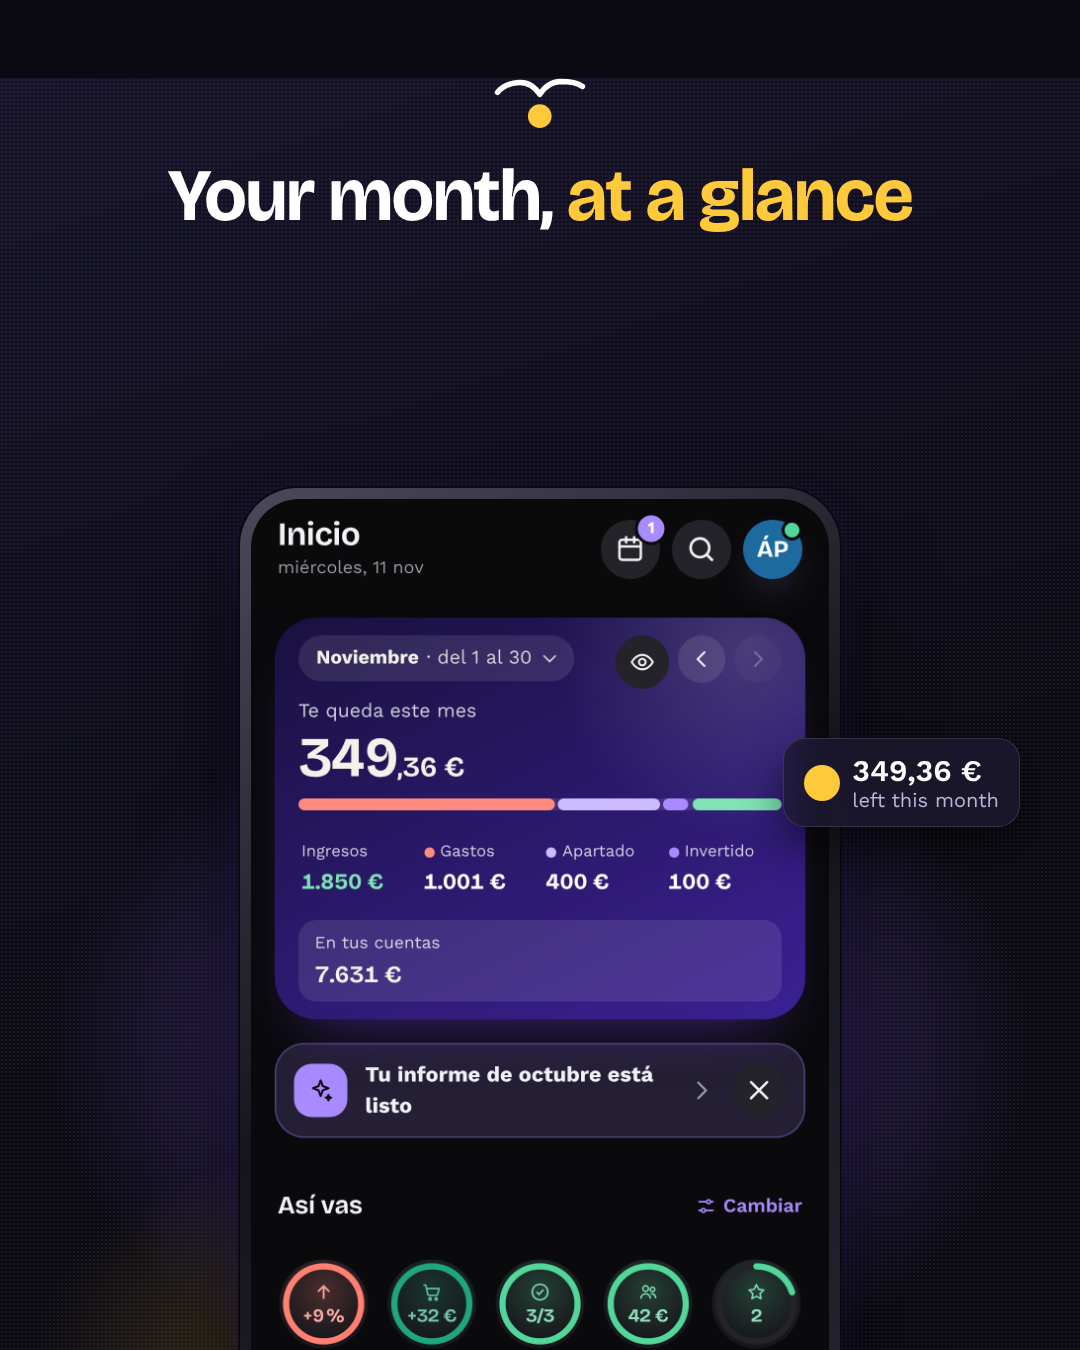
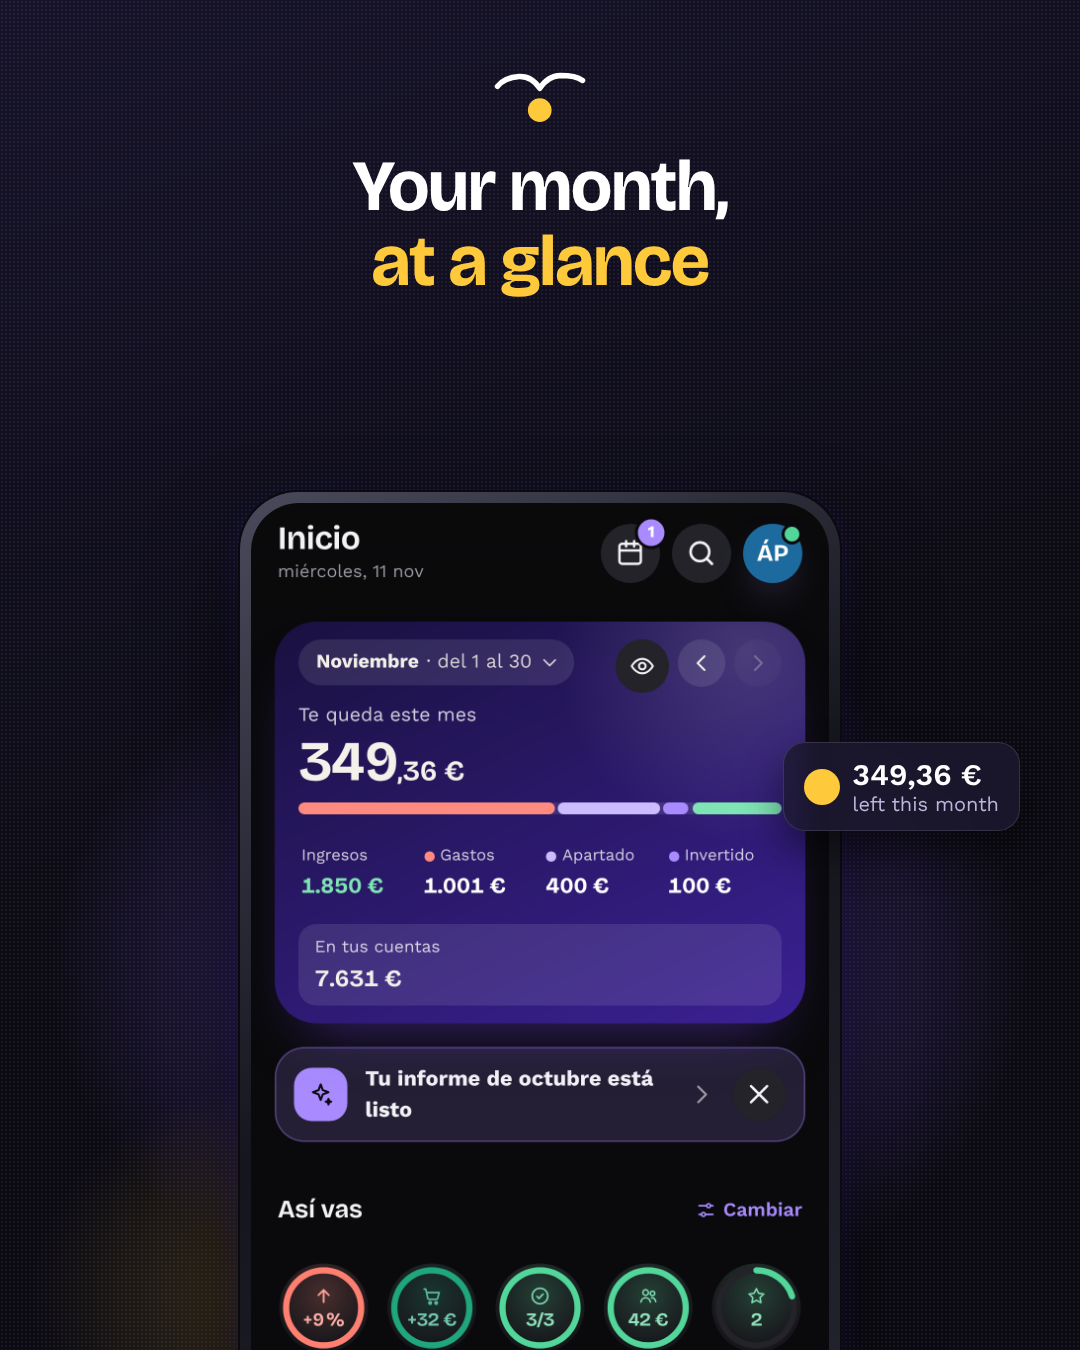
Marketing: imágenes verticales de Reddit con el fondo completo arriba
Claude-Session: https://claude.ai/code/session_01EU8kPQfairHqFb6dPjchRM

diff --git a/docs/marketing/play/reddit/c2.html b/docs/marketing/play/reddit/c2.html
@@ -1,9 +1,9 @@
 <html><head><meta charset="utf-8"><link rel="stylesheet" href="file:///home/claude/urlife/fonts/fonts.css"><link rel="stylesheet" href="comun.css"><style>
 body{width:1080px;height:1350px;text-align:center}.fondo{--gx:50%;--gy:72%;--ox:30%;--oy:96%}
-.marca{width:92px;margin:78px auto 28px}h1{font-size:74px;line-height:1.05;margin:0 90px}
-.tel{width:600px;left:240px;top:410px}
-.pill{right:60px;top:660px;text-align:left;font-size:30px}.pill small{font-size:20px}.pill i{width:36px;height:36px}
+.marca{width:92px;margin:72px auto 26px}h1{font-size:72px;line-height:1.05;margin:0 60px}h1 .oro{display:block}
+.tel{width:600px;left:240px;top:420px}
+.pill{right:60px;top:670px;text-align:left;font-size:30px}.pill small{font-size:20px}.pill i{width:36px;height:36px}
 </style></head><body><div class="fondo"></div><div class="grano"></div>
-<img class="marca" src="file:///tmp/qa-logo-integrado/marca/paloma-blanco.svg"><h1>See where <span class="oro">your money goes</span></h1>
+<img class="marca" src="file:///home/claude/urlife/marca/paloma-blanco.svg"><h1>See where <span class="oro">your money goes</span></h1>
 <div class="tel"><img src="file:///tmp/crudas/mov-gastas.png"></div>
 <div class="pill"><i style="background:#8B63FF"></i><div>1.000,64 €<small>spent this month</small></div></div></body></html>

diff --git a/docs/marketing/play/reddit/comun.css b/docs/marketing/play/reddit/comun.css
@@ -1,11 +1,11 @@
 @font-face{font-family:Brico;src:url(file:///home/claude/urlife/fonts/bricolage-grotesque.woff2)}
 *{box-sizing:border-box}
 body{margin:0;color:#fff;font-family:'Work Sans';overflow:hidden;position:relative;background:#0b0a12}
-.fondo{position:absolute;inset:0;background:
+.fondo{position:fixed;inset:0;background:
  radial-gradient(700px 520px at var(--gx,72%) var(--gy,55%),rgba(124,82,240,.55),transparent 70%),
  radial-gradient(420px 320px at var(--ox,80%) var(--oy,85%),rgba(255,201,60,.22),transparent 70%),
  linear-gradient(160deg,#16132a 0%,#0b0a12 60%)}
-.grano{position:absolute;inset:0;opacity:.06;background-image:radial-gradient(#fff 1px,transparent 1px);background-size:4px 4px}
+.grano{position:fixed;inset:0;opacity:.06;background-image:radial-gradient(#fff 1px,transparent 1px);background-size:4px 4px}
 .tel{position:absolute;border-radius:58px;padding:11px;background:linear-gradient(145deg,#4a4a5c,#15151d 40%,#2b2b38);
  box-shadow:0 0 0 2px #0a0a0f,0 50px 90px rgba(0,0,0,.65),0 10px 30px rgba(80,50,200,.25)}
 .tel img{display:block;width:100%;border-radius:48px}

diff --git a/docs/marketing/play/reddit/portada.html b/docs/marketing/play/reddit/portada.html
@@ -12,7 +12,7 @@ ul li:before{content:"";display:inline-block;width:10px;height:10px;border-radiu
 .t2{width:350px;left:230px;top:96px;z-index:2}
 .p1{left:20px;top:690px;z-index:3}.p2{left:560px;top:120px;z-index:3}
 </style></head><body><div class="fondo"></div><div class="grano"></div>
-<div class="izq"><img class="marca" src="file:///tmp/qa-logo-integrado/marca/paloma-blanco.svg"><h1>PalomApp</h1>
+<div class="izq"><img class="marca" src="file:///home/claude/urlife/marca/paloma-blanco.svg"><h1>PalomApp</h1>
 <h2>Your money and <span class="oro">what you share</span> with your partner, flatmates &amp; friends</h2>
 <ul><li>Log an expense in two taps — or snap the receipt</li><li>Split costs and settle up in one tap</li><li>Savings goals, budgets &amp; shared plans</li></ul>
 <div class="tag">Looking for Android testers · I test back!</div></div>
